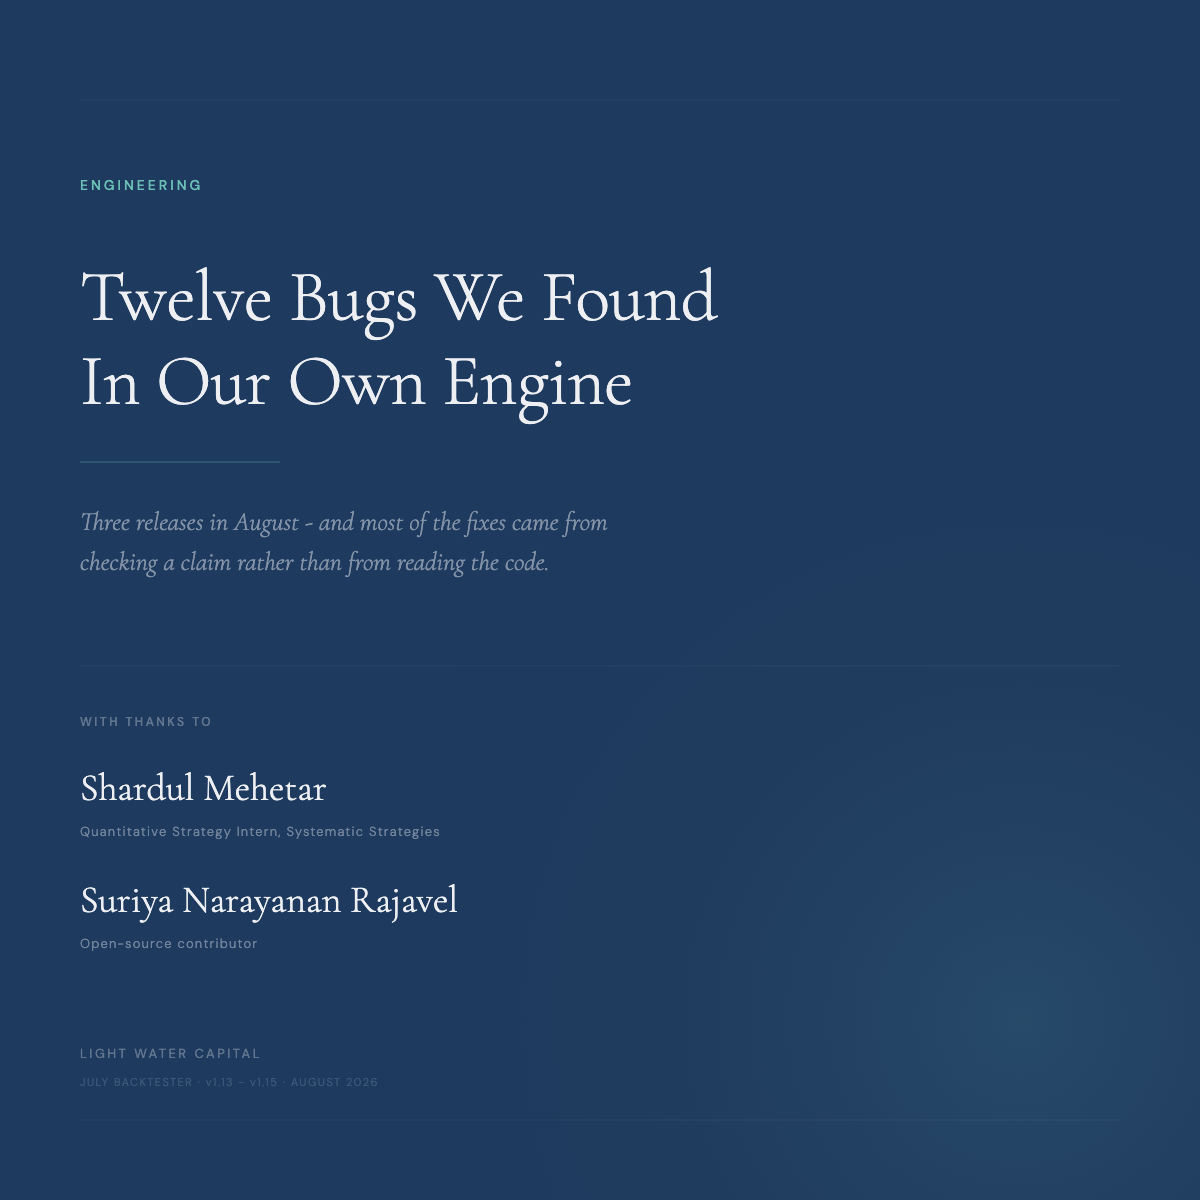
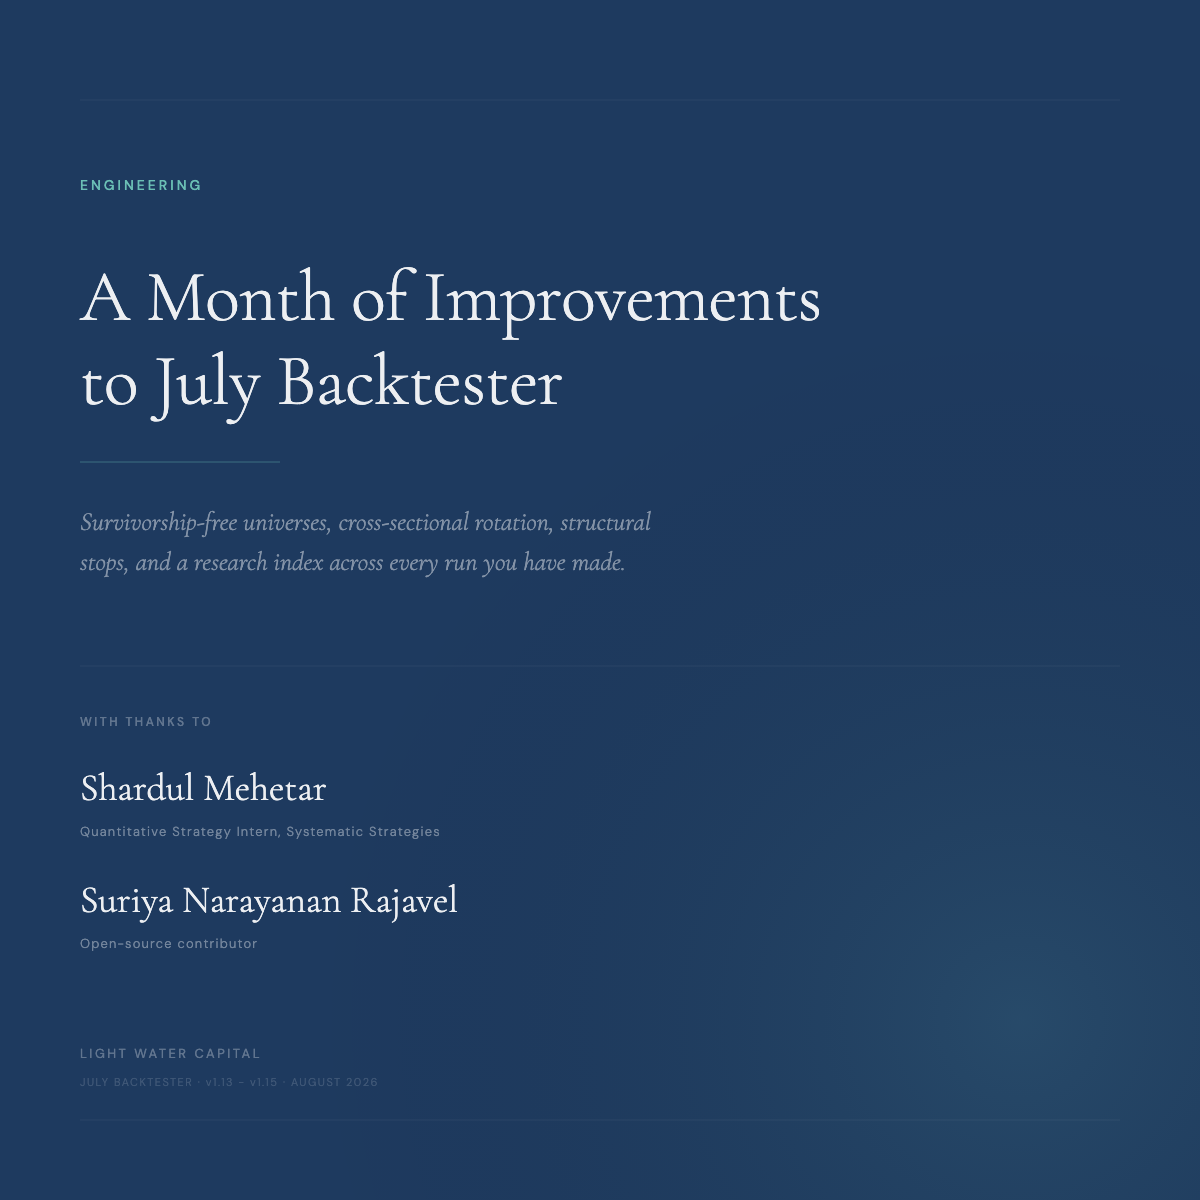
Reframe the July Backtester post around the improvements, not the bug audit
Founder note: lead with what got better this month and give Shardul and Suriya
the credit, rather than opening on twelve bugs found in our own engine. The
correctness work is now one line among the improvements instead of the headline.

Copy now leads on capability: survivorship-free rule-based universes, first-class
cross-sectional rotation, signal-bar structural stops, the merged Norgate/Polygon
provider, and the cross-run research index. Same underlying facts from the public
v1.13.0 / v1.14.0 / v1.15.0 notes; the validator anecdote is dropped entirely
since it only served the bug framing.

Card headline follows: "A Month of Improvements to July Backtester", subhead
listing the four capabilities. WITH THANKS block unchanged - it was already
carrying the credit, which now reads as the point of the post rather than a
footnote to an audit.

Claude-Session: https://claude.ai/code/session_011YR1C9KhARcQSRLP3gqaBF

Changed region(s): [[0.0617, 0.2158, 0.6783, 0.37], [0.0617, 0.4317, 0.5242, 0.4933]]

diff --git a/assets/og-july-backtester-releases-august-2026.html b/assets/og-july-backtester-releases-august-2026.html
@@ -16,13 +16,13 @@
 
   <text x="80" y="190" font-family="'DM Sans', sans-serif" font-size="14" font-weight="500" letter-spacing="3" fill="#6BBFB5">ENGINEERING</text>
 
-  <text x="80" y="320" font-family="'Cormorant Garamond', serif" font-size="72" font-weight="300" fill="rgba(255,255,255,0.92)" letter-spacing="-0.5">Twelve Bugs We Found</text>
-  <text x="80" y="404" font-family="'Cormorant Garamond', serif" font-size="72" font-weight="300" fill="rgba(255,255,255,0.92)" letter-spacing="-0.5">In Our Own Engine</text>
+  <text x="80" y="320" font-family="'Cormorant Garamond', serif" font-size="72" font-weight="300" fill="rgba(255,255,255,0.92)" letter-spacing="-0.5">A Month of Improvements</text>
+  <text x="80" y="404" font-family="'Cormorant Garamond', serif" font-size="72" font-weight="300" fill="rgba(255,255,255,0.92)" letter-spacing="-0.5">to July Backtester</text>
 
   <line x1="80" y1="462" x2="280" y2="462" stroke="#6BBFB5" stroke-width="1" opacity="0.4"/>
 
-  <text x="80" y="530" font-family="'Cormorant Garamond', serif" font-size="26" font-weight="300" font-style="italic" fill="rgba(255,255,255,0.45)">Three releases in August - and most of the fixes came from</text>
-  <text x="80" y="570" font-family="'Cormorant Garamond', serif" font-size="26" font-weight="300" font-style="italic" fill="rgba(255,255,255,0.45)">checking a claim rather than from reading the code.</text>
+  <text x="80" y="530" font-family="'Cormorant Garamond', serif" font-size="26" font-weight="300" font-style="italic" fill="rgba(255,255,255,0.45)">Survivorship-free universes, cross-sectional rotation, structural</text>
+  <text x="80" y="570" font-family="'Cormorant Garamond', serif" font-size="26" font-weight="300" font-style="italic" fill="rgba(255,255,255,0.45)">stops, and a research index across every run you have made.</text>
 
   <line x1="80" y1="666" x2="1120" y2="666" stroke="rgba(255,255,255,0.06)" stroke-width="1"/>
 
